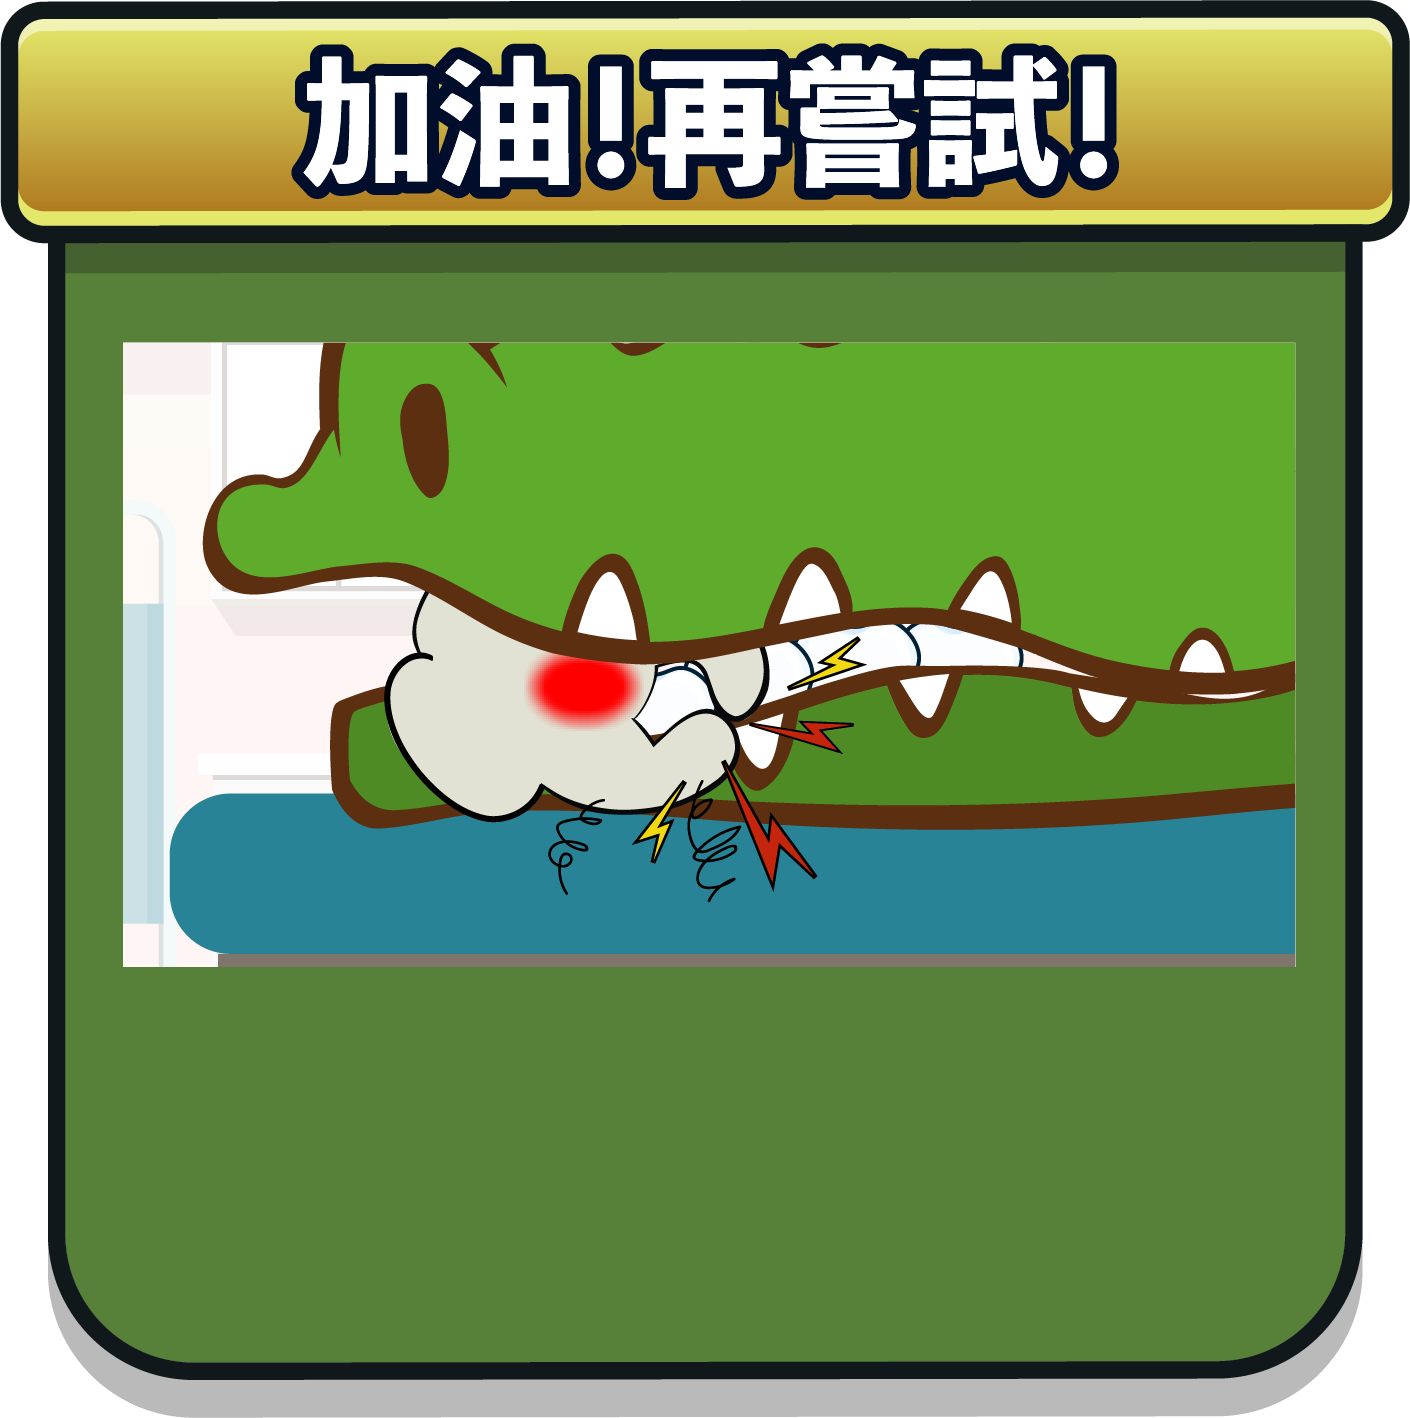
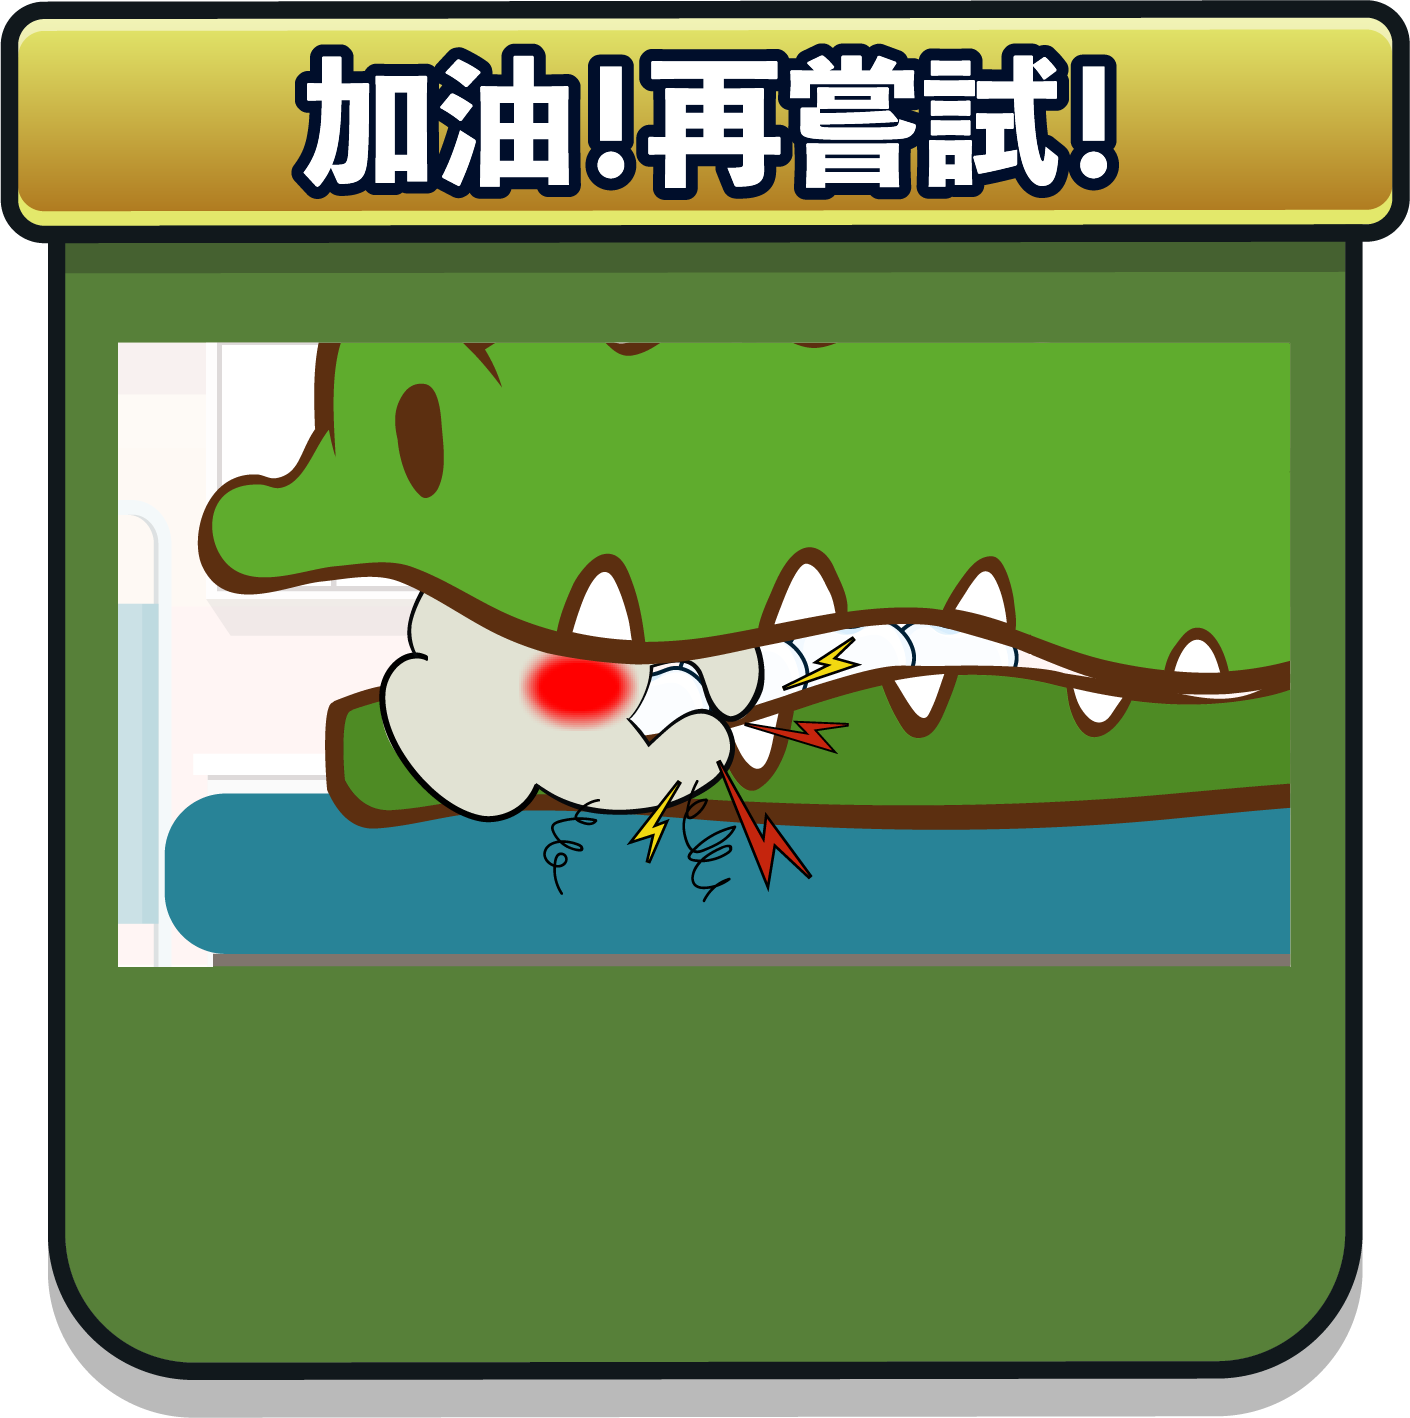
feat: add RetryScene

diff --git a/src/games/game_19/scenes/GameScene.js b/src/games/game_19/scenes/GameScene.js
@@ -24,10 +24,9 @@ export default class GameScene extends BasicScene {
 
         this.leftMoveButton = undefined
         this.rightMoveButton = undefined
-        this.retryButton = undefined
         this.stageSlaverSprite = undefined
         this.backgroundLayer = undefined
-        this.uiLayer = undefined
+        this.buttonControllerLayer = undefined
         this.playLayer = undefined
         this.crocodileMouth = undefined
         this.gameFailed = undefined
@@ -111,7 +110,7 @@ export default class GameScene extends BasicScene {
         super.create();
 
         this.sys.game.globals.gtag.event(`game_${this.sys.game.globals.gameStageIndex}_start`, { 'event_category': 'js_games', 'event_label': 'Game Start' });
-
+        this.add.zone()
 
         createStarAnimations(this.anims);
 
@@ -247,12 +246,12 @@ export default class GameScene extends BasicScene {
 
 
     paintGameSuccess() {
-        this.uiLayer.setVisible(false);
+        this.buttonControllerLayer.setVisible(false);
         GameManager.getInstance().updateGameQuestionNumberList(this.questionIndex);
 
         GameManager.getInstance().updateGamePlayTotal(() => {
             this.setDragContainerToOriginPosition();
-            this.showAnswer(true);
+            this.showCorrectAnswer(true);
 
             this.sound.play('popOffEffectSound');
 
@@ -292,38 +291,47 @@ export default class GameScene extends BasicScene {
         // this.uiLayer.setVisible(false);
         GameManager.getInstance().setGameQuestionError(this.questionIndex, (isFirstError, value) => {
             if (isFirstError) {
-                const errorImage=this.add.image(position.x, position.y-100, 'errorImage');
+                const errorImage = this.add.image(position.x, position.y - 100, 'errorImage');
                 this.playLayer.add(errorImage);
 
-                const biteCrunchEffectSound=this.sound.add('biteCrunchEffectSound');
+                const firstErrorEffectSound = this.sound.add('firstErrorEffectSound');
 
-                biteCrunchEffectSound.once('complete',()=>{
+                firstErrorEffectSound.once('complete', () => {
                     errorImage.destroy();
                 })
 
-                biteCrunchEffectSound.play();
+                firstErrorEffectSound.play();
 
-                // this.showGameFailedTipBox();
                 // this.playLayer.setVisible(false);
                 // this.uiLayer.setVisible(false);
                 // this.input.setDefaultCursor(`url(), auto`);
 
             } else {
-                this.showAnswer(false);
-                this.sound.play('gameSceneYouLose');
-                this.sound.play('dentistDrillEnvironmentSound');
-                this.time.addEvent({
-                    delay: 5000,
-                    callback: () => {
-                        this.scene.start(value ? 'End' : 'Game');
-                    }
+                this.scene.run('Retry');
+
+                this.scene.sleep();
+
+                this.events.once('wake', () => {
+
+                    const currentAnswerVoice = this.sound.add('voiceAnswer' + this.questionIndex);
+
+                    currentAnswerVoice.once('complete', () => {
+                        this.time.addEvent({
+                            delay: 1000,
+                            callback: () => {
+                                this.scene.start(value ? 'End' : 'Game');
+                            }
+                        })
+                    });
+
+                    this.showCorrectAnswer(false);
+                    currentAnswerVoice.play();
                 })
             }
-
         });
     }
 
-    showAnswer(isSuccess) {
+    showCorrectAnswer(isSuccess) {
         this.dragContainer.removeAt(0, true)
 
         let paintToothContainer = this.pintTooth(this.question.answer);
@@ -364,14 +372,6 @@ export default class GameScene extends BasicScene {
         this.dragContainer.addAt(paintToothContainer, 0);
     }
 
-    showGameFailedTipBox() {
-        // let dialogWrongBox = new DialogWrongBox(this, 0, 0);
-        // dialogWrongBox.setAlignCenter();
-
-        // this.sound.play('dentistDrillEnvironmentSound');
-        this.scene.run('retry')
-    }
-
 
 
     /**
@@ -381,7 +381,7 @@ export default class GameScene extends BasicScene {
     paintGameScene() {
 
         this.playLayer = this.add.layer().setDepth(1);
-        this.uiLayer = this.add.layer().setDepth(2);
+        this.buttonControllerLayer = this.add.layer().setDepth(2);
         this.backgroundLayer = this.add.layer().setDepth(0);
 
         this.crocodileMouthCont = new CrocodileMouthLow(this, 0, this.getRowHeight(6.75))
@@ -396,15 +396,21 @@ export default class GameScene extends BasicScene {
 
         this.dropContainer = new AnswerDropZone(this, this.getColWidth(8.5), this.getRowHeight(2.5), this.question);
 
-        this.leftMoveButton = new LeftMoveButton(this, this.getColWidth(10), this.getRowHeight(11), this.dragContainer, this.moveStep,);
-        this.rightMoveButton = new RightMoveButton(this, this.getColWidth(11), this.getRowHeight(11), this.dragContainer, this.moveStep);
+        this.buildControllerButtons(this.isDisplayDirectionButtonControllers(toothsContainer));
 
         this.backgroundLayer.add([this.buildBg('bgProgressGame')]);
-        this.playLayer.add([this.dropContainer, this.dragContainer])
-        this.uiLayer.add([this.rightMoveButton, this.leftMoveButton])
-
-        this.uiLayer.setVisible(this.isDisplayDirectionButtonControllers(toothsContainer));
+        this.playLayer.add([this.dropContainer, this.dragContainer]);
     }
+
+    buildControllerButtons(isBuild) {
+        if(isBuild){
+            this.leftMoveButton = new LeftMoveButton(this, this.getColWidth(10), this.getRowHeight(11), this.dragContainer, this.moveStep,);
+            this.rightMoveButton = new RightMoveButton(this, this.getColWidth(11), this.getRowHeight(11), this.dragContainer, this.moveStep);
+            this.buttonControllerLayer.add([this.rightMoveButton, this.leftMoveButton])
+        }
+    }
+
+
 
     isDisplayDirectionButtonControllers(toothsContainer) {
 

diff --git a/src/games/game_19/components/RightMoveButton.js b/src/games/game_19/components/RightMoveButton.js
@@ -10,16 +10,20 @@ export default class RightMoveButton extends Phaser.GameObjects.Container {
 
     this.scene = scene;
     this.gameObject = gameObject;
-    this.allowableMovingDistance = step+1250;
+    this.allowableMovingDistance = step + 1250;
     this.gameObjectOriginPosition = { "x": gameObject.x, "y": gameObject.y }
     this.step = step
 
-    this.texture = scene.add.sprite(0, 0, 'moveBtn',1).setScale(0.5);
+    this.texture = scene.add.sprite(0, 0, 'moveBtn', 1).setScale(0.5);
     // this.texture = scene.add.sprite(0, 0, 'rightButton',1).setScale(0.5);
 
     this.setSize(this.texture.width, this.texture.height);
     this.add(this.texture);
 
+    this.enableTouchEventListener();
+  }
+
+  enableTouchEventListener() {
     this.setInteractive({ useHandCursor: true }).on(
       Phaser.Input.Events.GAMEOBJECT_POINTER_DOWN, () => {
         // this.texture.setFrame(0);
@@ -34,30 +38,35 @@ export default class RightMoveButton extends Phaser.GameObjects.Container {
       );
   }
 
+  unableTouchEventListener() {
+    this.off(Phaser.Input.Events.GAMEOBJECT_POINTER_DOWN);
+    this.off(Phaser.Input.Events.GAMEOBJECT_POINTER_UP);
+  }
+
   onDownClicked() {
     this.scene.sound.play('buttonEffectSound');
     this.moveToRight();
-    
+
   }
 
   onUpClicked() {
-    
+
   }
 
-   /**
-     * 往右移动
-      */
-    moveToRight() {
+  /**
+    * 往右移动
+     */
+  moveToRight() {
 
-      if (this.isEnableMove()) {
-        // TweenAnimation.playHorizontalMoveTweenAnimation(this.scene, this.gameObject, this.gameObject.x + this.step, 1000);
-        TweenAnimation.playHorizontalMoveTweenAnimation(this.scene, this.gameObject, this.gameObject.x - this.step, 1000);
-      }
+    if (this.isEnableMove()) {
+      // TweenAnimation.playHorizontalMoveTweenAnimation(this.scene, this.gameObject, this.gameObject.x + this.step, 1000);
+      TweenAnimation.playHorizontalMoveTweenAnimation(this.scene, this.gameObject, this.gameObject.x - this.step, 1000);
     }
-  
-    isEnableMove() {
-      // return Math.abs(this.gameObject.x + this.step - this.gameObjectOriginPosition.x) <= this.allowableMovingDistance;
-      return Math.abs(this.gameObject.x - this.step - this.gameObjectOriginPosition.x) <= this.allowableMovingDistance
-    }
+  }
+
+  isEnableMove() {
+    // return Math.abs(this.gameObject.x + this.step - this.gameObjectOriginPosition.x) <= this.allowableMovingDistance;
+    return Math.abs(this.gameObject.x - this.step - this.gameObjectOriginPosition.x) <= this.allowableMovingDistance
+  }
 
 }

diff --git a/src/games/game_19/components/AnswerDropZone.js b/src/games/game_19/components/AnswerDropZone.js
@@ -11,19 +11,23 @@ export default class AnswerDropZone extends Phaser.GameObjects.Container {
         this.stageSlaverSprite = undefined;
         this.offset = 0;
 
-        this.init(this, scene, question);
+        this.init(scene, question);
     }
 
-    init(self, scene, question) {
+    init(scene, question) {
 
         this.stageSlaverSprite = scene.add.image(0, 0, 'stageSalver').setScale(0.6);
 
-        let dropZone = scene.add.zone(0, 0, this.stageSlaverSprite.displayWidth + 60, this.stageSlaverSprite.displayHeight + 60)
+        let dropZone = scene.add.zone(0, 0, this.stageSlaverSprite.displayWidth + 100, this.stageSlaverSprite.displayHeight + 100)
             .setRectangleDropZone(this.stageSlaverSprite.displayWidth, this.stageSlaverSprite.displayHeight);
 
-        self.add([this.stageSlaverSprite, dropZone]);
+        this.add([this.stageSlaverSprite, dropZone]);
 
-        this.addDropEventListener(scene, this.checkAnswer, question, self);
+        this.setSize(dropZone.displayWidth,dropZone.displayHeight);
+
+        // this.scene.physics.add.existing(this);
+
+        this.addDropEventListener(scene, this.checkAnswer, question, this);
 
         this.addSuccessEventListener(scene);
         this.addFailedEventListener(scene);
@@ -56,7 +60,7 @@ export default class AnswerDropZone extends Phaser.GameObjects.Container {
     addFailedEventListener(scene) {
         this.on('gameFailed', (gameObject) => {
             console.log('failed');
-            scene.paintGameFailed({x:gameObject.x,y:gameObject.y});
+            scene.paintGameFailed({ x: gameObject.x, y: gameObject.y });
         })
     }
 
@@ -86,7 +90,7 @@ export default class AnswerDropZone extends Phaser.GameObjects.Container {
             gameObject.y = gameObject.originPoint.originPointY
 
             /* 顯示打錯的頁面 */
-            self.emit('gameFailed',gameObject);
+            self.emit('gameFailed', gameObject);
         }
     }
 
@@ -102,10 +106,10 @@ export default class AnswerDropZone extends Phaser.GameObjects.Container {
             if (index == 0) {
                 switch (tooth.type) {
                     case 'bigTooth':
-                        tooth.x = -dropZone.width / 2 + 210;
+                        tooth.x = -dropZone.width / 2 + 220;
                         break;
                     case 'smallTooth':
-                        tooth.x = -dropZone.width / 2 + 170;
+                        tooth.x = -dropZone.width / 2 + 180;
                         break;
                 }
             }

diff --git a/src/games/game_19/scenes/PreloaderScene.js b/src/games/game_19/scenes/PreloaderScene.js
@@ -61,6 +61,8 @@ export default class PreloaderScene extends BasicScene {
             'gameSceneYouLose': require('../assets/audio/sound_background/bgm_game_scene_you_lose.mp3'),
             'gameEndHappyEnding': require('../assets/audio/sound_background/bgm_game_end_happy_ending.mp3'),
             'gamePlaySceneBackgroundMusic': require('../assets/audio/sound_background/bgm_game_scene.mp3'),
+            'firstErrorEffectSound':require('../assets/audio/sound_effect/effect_first_error.mp3'),
+            
             'voiceAnswer0': require('../assets/audio/voice/voice_answer_00.mp3'),
             'voiceAnswer1': require('../assets/audio/voice/voice_answer_01.mp3'),
             'voiceAnswer2': require('../assets/audio/voice/voice_answer_02.mp3'),

diff --git a/src/games/game_19/components/LeftMoveButton.js b/src/games/game_19/components/LeftMoveButton.js
@@ -20,6 +20,10 @@ export default class LeftMoveButton extends Phaser.GameObjects.Container {
     this.setSize(this.texture.width, this.texture.height);
     this.add(this.texture);
 
+   this.enableTouchEventListener();
+  }
+
+  enableTouchEventListener(){
     this.setInteractive({ useHandCursor: true }).on(
       Phaser.Input.Events.GAMEOBJECT_POINTER_DOWN, () => {
         // this.texture.setFrame(0);
@@ -32,6 +36,11 @@ export default class LeftMoveButton extends Phaser.GameObjects.Container {
           this.onUpClicked();
         }
       );
+  }
+
+  unableTouchEventListener(){
+    this.off(Phaser.Input.Events.GAMEOBJECT_POINTER_DOWN);
+    this.off(Phaser.Input.Events.GAMEOBJECT_POINTER_UP);
   }
 
   onDownClicked() {

diff --git a/src/games/game_19/scenes/RetryScene.js b/src/games/game_19/scenes/RetryScene.js
@@ -4,7 +4,7 @@ import DialogWrongBox from "../components/DialogWrongBox";
 export default class RetryScene extends Phaser.Scene {
 
     constructor() {
-        super({ key: 'retry'})
+        super({ key: 'Retry' })
     }
 
     init() {
@@ -12,11 +12,15 @@ export default class RetryScene extends Phaser.Scene {
     }
 
     create() {
+        this.input.setDefaultCursor(`url(), auto`);
+
         const backgroundImage = this.add.image(0, 0, 'bgTutor').setOrigin(0, 0);
         const dialogWrongBox = new DialogWrongBox(this, 0, 0);
 
         Phaser.Display.Align.In.Center(dialogWrongBox, backgroundImage);
 
+        this.sound.play('gameSceneYouLose');
         this.sound.play('dentistDrillEnvironmentSound');
+
     }
 }

diff --git a/src/games/game_19/components/ErrorRetryButton.js b/src/games/game_19/components/ErrorRetryButton.js
@@ -30,6 +30,11 @@ export default class ErrorRetryButton extends Phaser.GameObjects.Sprite {
     }
 
     onUpClicked(scene) {
-        scene.scene.start('Game')
+
+        scene.sound.stopByKey('gameSceneYouLose');
+        scene.sound.stopByKey('dentistDrillEnvironmentSound');
+
+        scene.scene.stop();
+        scene.scene.run('Game');
     }
 }

diff --git a/src/games/game_19/config/index.js b/src/games/game_19/config/index.js
@@ -10,7 +10,7 @@ export default {
     default: 'arcade',
     arcade: {
       gravity: { y: 0 },
-      debug:true,
+      debug:false,
     }
   },
   scale: {
